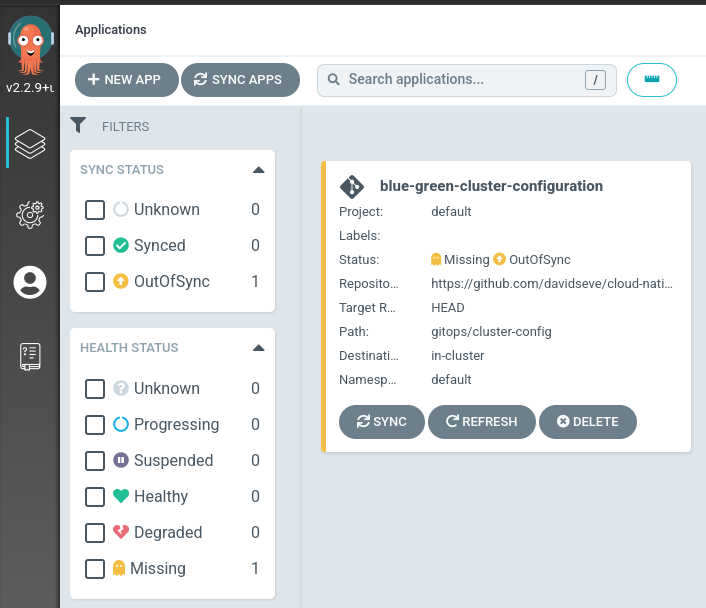
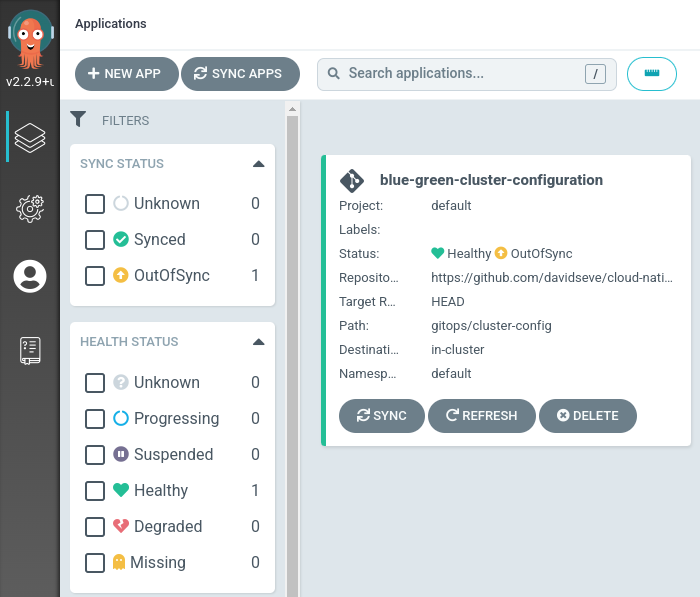
add tekton cluster role

diff --git a/README.md b/README.md
@@ -3,7 +3,7 @@
 ## OpenShift GitOps 
 ### Install OpenShift GitOps 
 
-Log into OpenShift as a cluster admin
+Log into OpenShift as a cluster admin and install the OpenShift GitOps operator with the following command:
 ```
 oc apply -f gitops/gitops-operator.yaml
 TODO ver si puedo meter aqui tambin la aplicaicon de argo y que todo sea solo este comando
@@ -39,35 +39,22 @@ oc apply -f gitops/application-cluster-config.yaml -n openshift-gitops
 
 Looking at the Argo CD dashboard, you would notice that the **blue-green-cluster-configuration** Argo CD application is created by is out of sync, since we configured it with manual sync policy.
 
-TODO
 ![Argo CD - Cluster Config](gitops/images/application-cluster-config-outofsync.png)
 
 Click on the **Sync** button on the **blue-green-cluster-configuration** application and then on **Synchronize** button after reviewing the changes that will be rolled out to the cluster.
 
 Once the sync is completed successfully, you would see that Argo CD reports a the configurations to be currently in sync with the Git repository and healthy. You can click on the **blue-green-cluster-configuration** application to check the details of sync resources and their status on the cluster. 
 
-TODO
-![Argo CD - Cluster Config](images/gitops-09.png)
-TODO
-![Argo CD - Cluster Config](images/gitops-10.png)
+![Argo CD - Cluster Config](gitops/images/application-cluster-config-sync.png)
+
 
 You can check that a namespace called `blue-green-gitops` is created on the cluster.
+
+You can also check that the **Openshift Pipelines operator** is installed.
 
 Now that the configuration sync is in place, any changes in the Git repository will be automatically detect by Argo CD and would change the status of the **blue-green-cluster-configuration** to `OutOfSync`, which implies a drift from the desired configuration. One can set the [sync policy to automated](https://argo-cd.readthedocs.io/en/stable/user-guide/auto_sync/) in order for Argo CD to automatically roll out changes form Git repository to the cluster. 
 
 TODO ver si faltan mas permisos
-## Openshift Pipelines
 
-TODO ver si esto lo instala argo
-### Install OpenShift Pipelines 
-
-Log into OpenShift as a cluster admin
-```
-oc apply -f pipelines/pipelines-operator.yaml
-```
-
-Once OpenShift GitOps is installed, an instance of Argo CD is automatically installed on the cluster in the `openshift-gitops` namespace and link to this instance is added to the application launcher in OpenShift Web Console.
-
-![Application Launcher](gitops/images/gitops-link.png)
 
 TODO ver si faltan mas permisos, casi seguro que el toke de git
